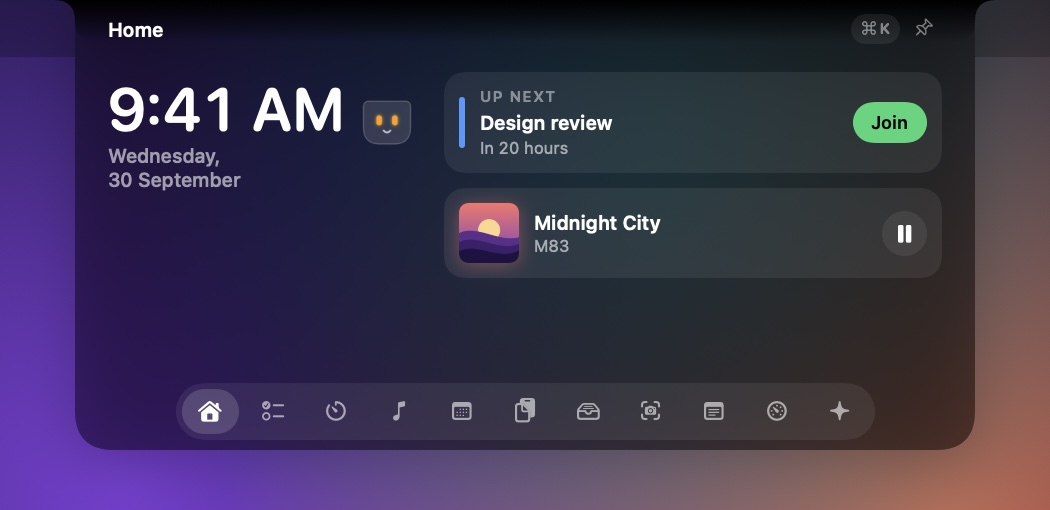
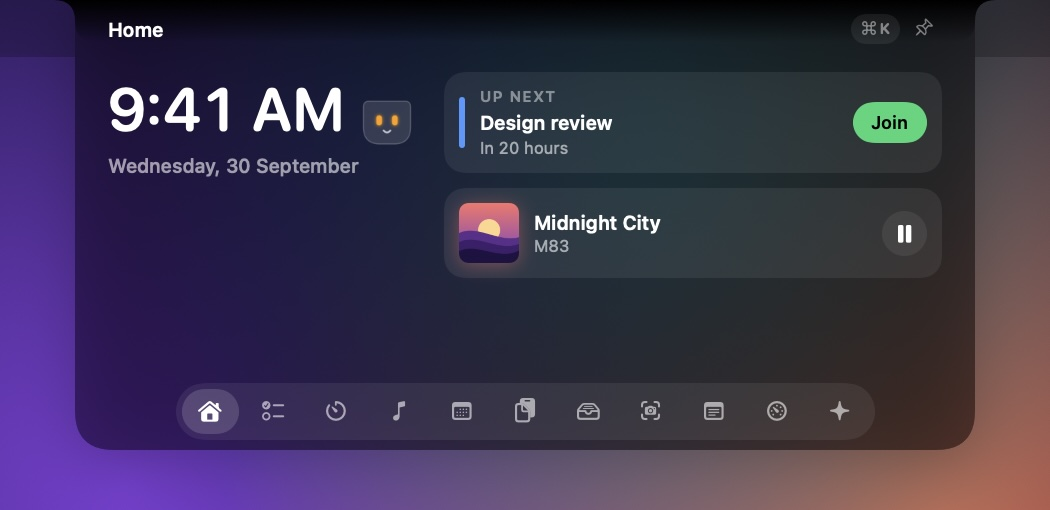
Keep the date on one line on Home
The mascot shared a row with both the time and the date, leaving the
date about 160pt, so "Wednesday, 30 September" wrapped. The mascot now
sits beside the time only and the date gets the column's full width,
shrinking a little rather than wrapping if a locale needs more.

Re-renders the hero and theme images, which showed the wrap.

Changed region(s): [[0.0914, 0.2941, 0.3352, 0.3824]]

diff --git a/Sources/Xotch/Modules/Home/HomeModule.swift b/Sources/Xotch/Modules/Home/HomeModule.swift
@@ -19,25 +19,29 @@ private struct HomeView: View {
     var body: some View {
         HStack(alignment: .top, spacing: 14) {
             VStack(alignment: .leading, spacing: 10) {
-                HStack(alignment: .top, spacing: 0) {
-                    TimelineView(.everyMinute) { context in
-                        let date = snapshotDate ?? context.date
-                        VStack(alignment: .leading, spacing: 0) {
+                TimelineView(.everyMinute) { context in
+                    let date = snapshotDate ?? context.date
+                    VStack(alignment: .leading, spacing: 0) {
+                        // The mascot shares a row with the time only, so the
+                        // date below gets the column's full width.
+                        HStack(alignment: .top, spacing: 0) {
                             Text(date, format: .dateTime.hour().minute())
                                 .font(.system(size: 46, weight: .semibold, design: .rounded))
                                 .monospacedDigit()
                                 .lineLimit(1)
                                 .minimumScaleFactor(0.6)
-                            Text(date, format: .dateTime.weekday(.wide).month(.wide).day())
-                                .font(.system(size: 13, weight: .medium))
-                                .foregroundStyle(Theme.secondaryInk)
+                            Spacer(minLength: 4)
+                            if showMascot {
+                                MascotBadge(mood: ActivityCenter.shared.mood, size: 48)
+                                    .padding(.top, 6)
+                                    .transition(.scale.combined(with: .opacity))
+                            }
                         }
-                    }
-                    Spacer(minLength: 4)
-                    if showMascot {
-                        MascotBadge(mood: ActivityCenter.shared.mood, size: 48)
-                            .padding(.top, 6)
-                            .transition(.scale.combined(with: .opacity))
+                        Text(date, format: .dateTime.weekday(.wide).month(.wide).day())
+                            .font(.system(size: 13, weight: .medium))
+                            .foregroundStyle(Theme.secondaryInk)
+                            .lineLimit(1)
+                            .minimumScaleFactor(0.8)
                     }
                 }
                 Spacer(minLength: 0)
